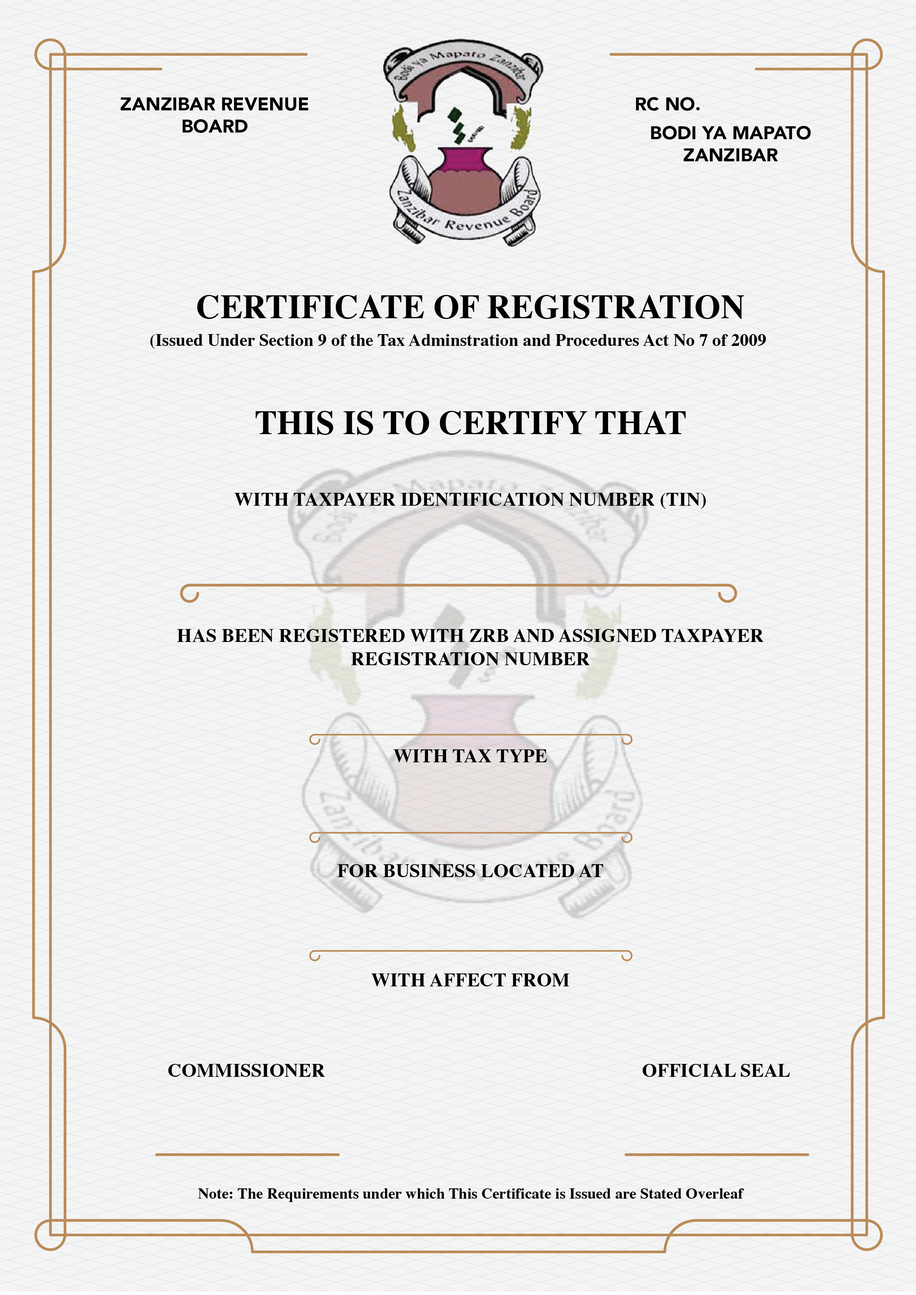
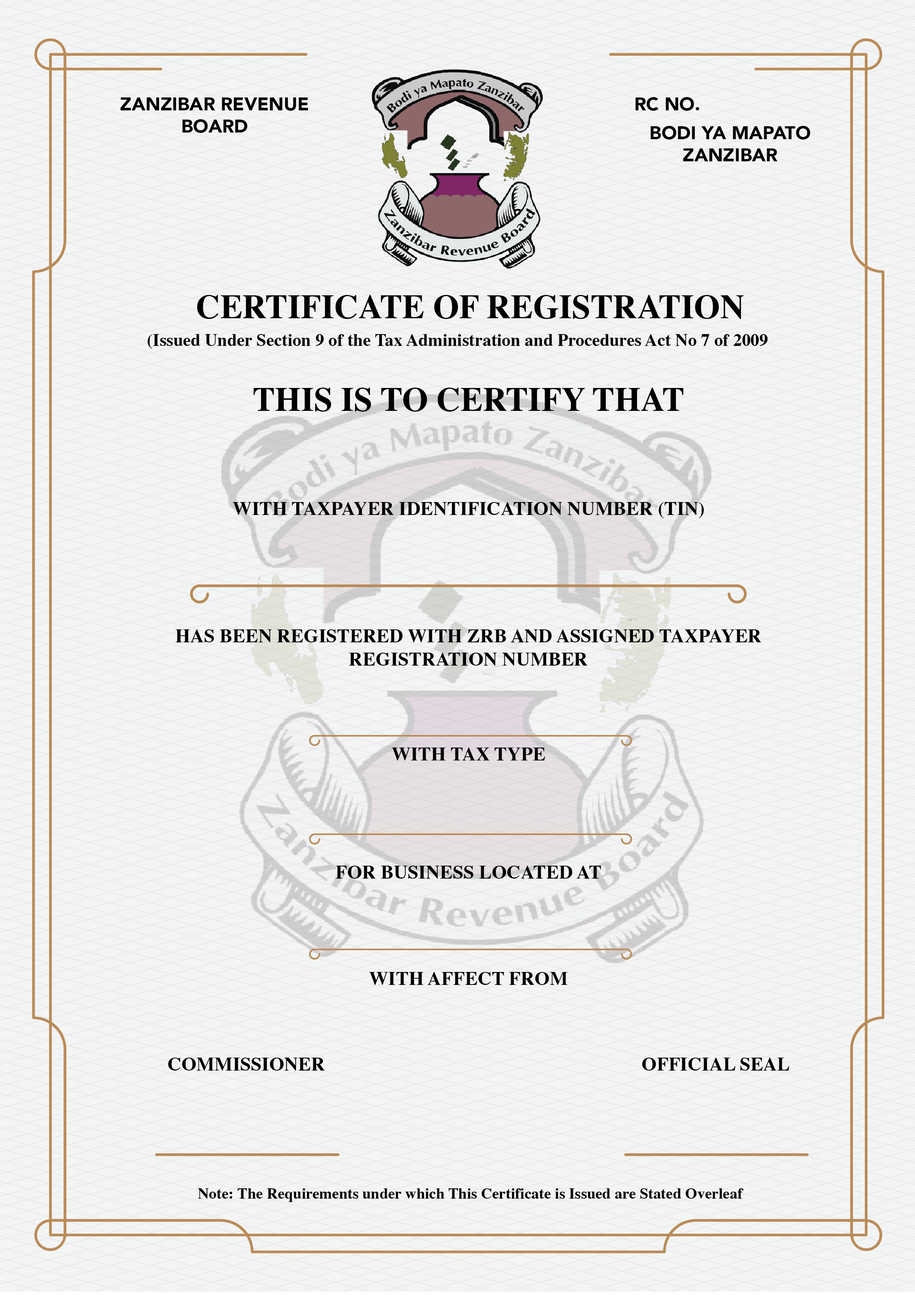
Update new business reg certificate

diff --git a/resources/views/business/certificate.blade.php b/resources/views/business/certificate.blade.php
@@ -27,20 +27,20 @@
             right: 20px;
         }
         .business-name {
-            font-size: 1.15em;
-            top: 33.5%;
+            font-size: 1.8em;
+            top: 32.3%;
         }
         .taxpayer-name {
             font-size: 1.6em;
             top: 41%;
         }
         .sole-owner {
-            font-size: 1.2em;
-            top: 32.5%;
+            font-size: 1.6em;
+            top: 31.2%;
         }
         .trading-as {
             font-size: 0.8em;
-            top: 34.9%;
+            top: 34.3%;
         }
         .reg-no {
             font-size: 1.5em;
